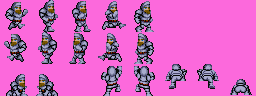
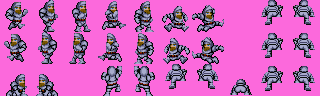
Gestion des echelles

diff --git a/main.c b/main.c
@@ -203,6 +203,7 @@ int main(void) {
                     arthur.frame_echelle++;
                     arthur_sur_echelle(&arthur); // --- Display sprite Arthur sur echelle
                     arthur_calcule_tiles(&arthur);
+                    arthur.frame_echelle_end=0;
                 }
                 else if ( tmx_sol[arthur.tiley][arthur.tilex] == 398 ){
                     arthur.y++;
@@ -217,6 +218,8 @@ int main(void) {
                     arthur.state = ARTHUR_SUR_LE_SOL;
                     arthur.position=ARTHUR_DEBOUT;
                     arthur_stop_walk(&arthur);
+                    arthur.display_y = -2;
+                    arthur.frame_echelle_end=0;
                 }
 
                 /*
